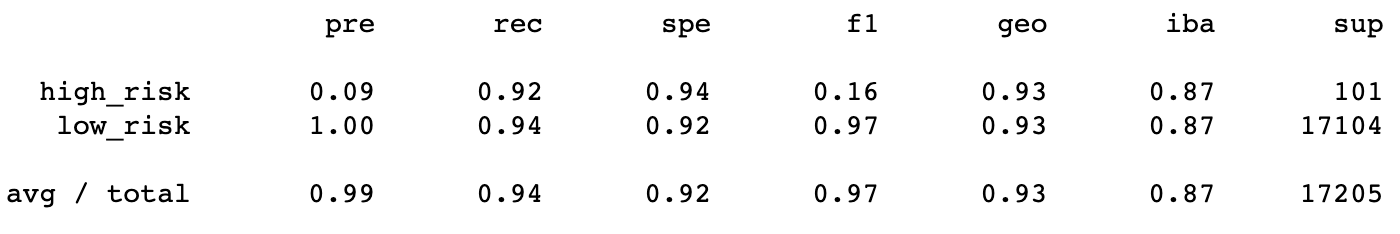
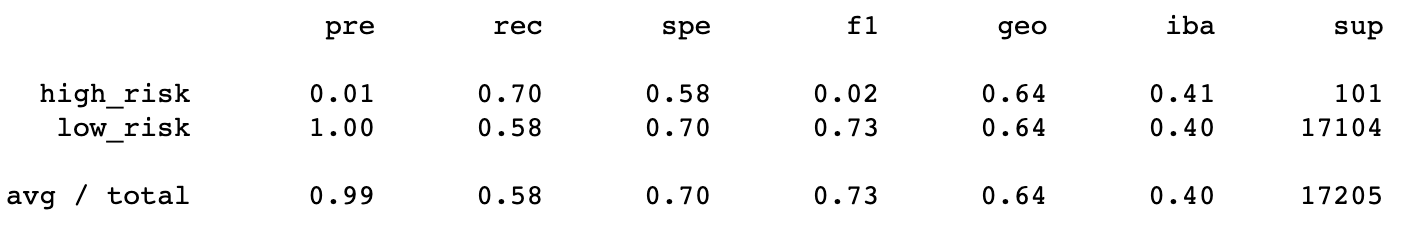
updated erroneous picture and readme

diff --git a/README.md b/README.md
@@ -4,7 +4,7 @@
 
 ### Introduction
 
-The world of machine learning offers a wide variety of models that make predictions on your dataset to varying degrees of accuracy (degrees of precision and recall as well). To test which one is the best for assessing risk in the field of credit, six supervised machine learning models were trained on the same data set and the results of their performance were stored in confusion matrices and classification reports. The six models in question are: Naive Random Oversampling, SMOTE Oversampling,  Cluster Centroids Undersampling, SMOTEENN combination Over and Undersampling, Balanced Random Forest Classifier, Easy Ensemble AdaBoost Classifier.
+The world of machine learning offers a wide variety of models that make predictions on your dataset to varying degrees of accuracy (degrees of precision and recall as well). To test which one is the best for assessing risk in the field of credit, six supervised machine learning models were trained on the same data set and the results of their key performance metrics are presented in this report. The six models in question are: Naive Random Oversampling, SMOTE Oversampling,  Cluster Centroids Undersampling, SMOTEENN combination Over and Undersampling, Balanced Random Forest Classifier, Easy Ensemble AdaBoost Classifier.
 
 ### Resources
 
